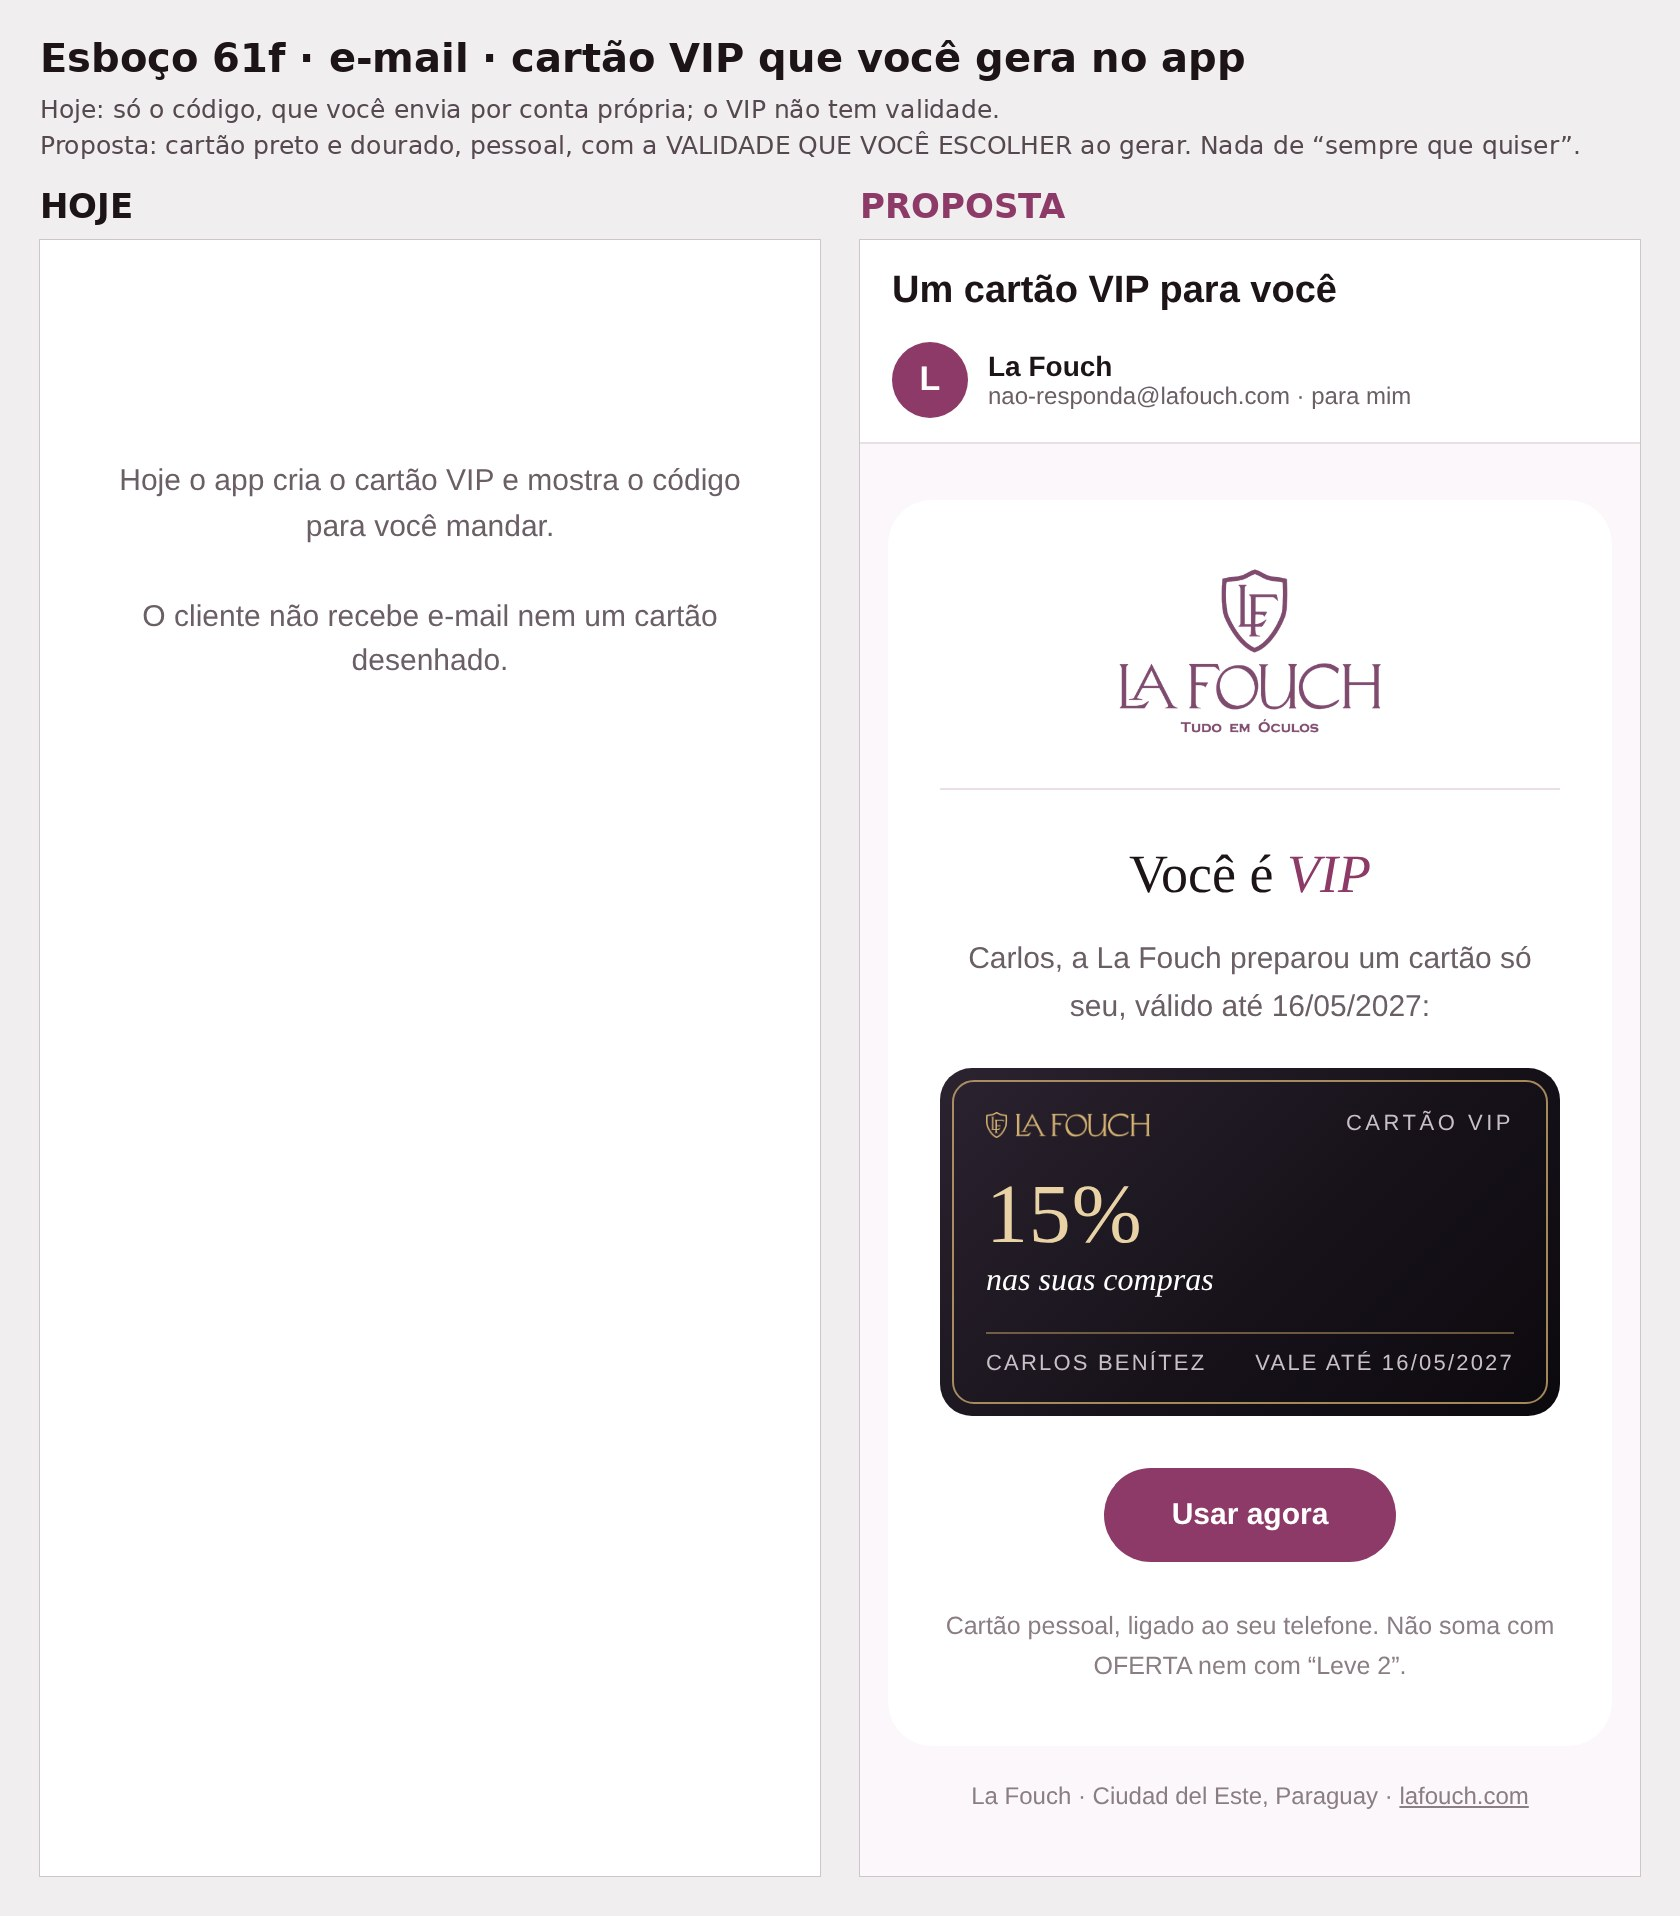
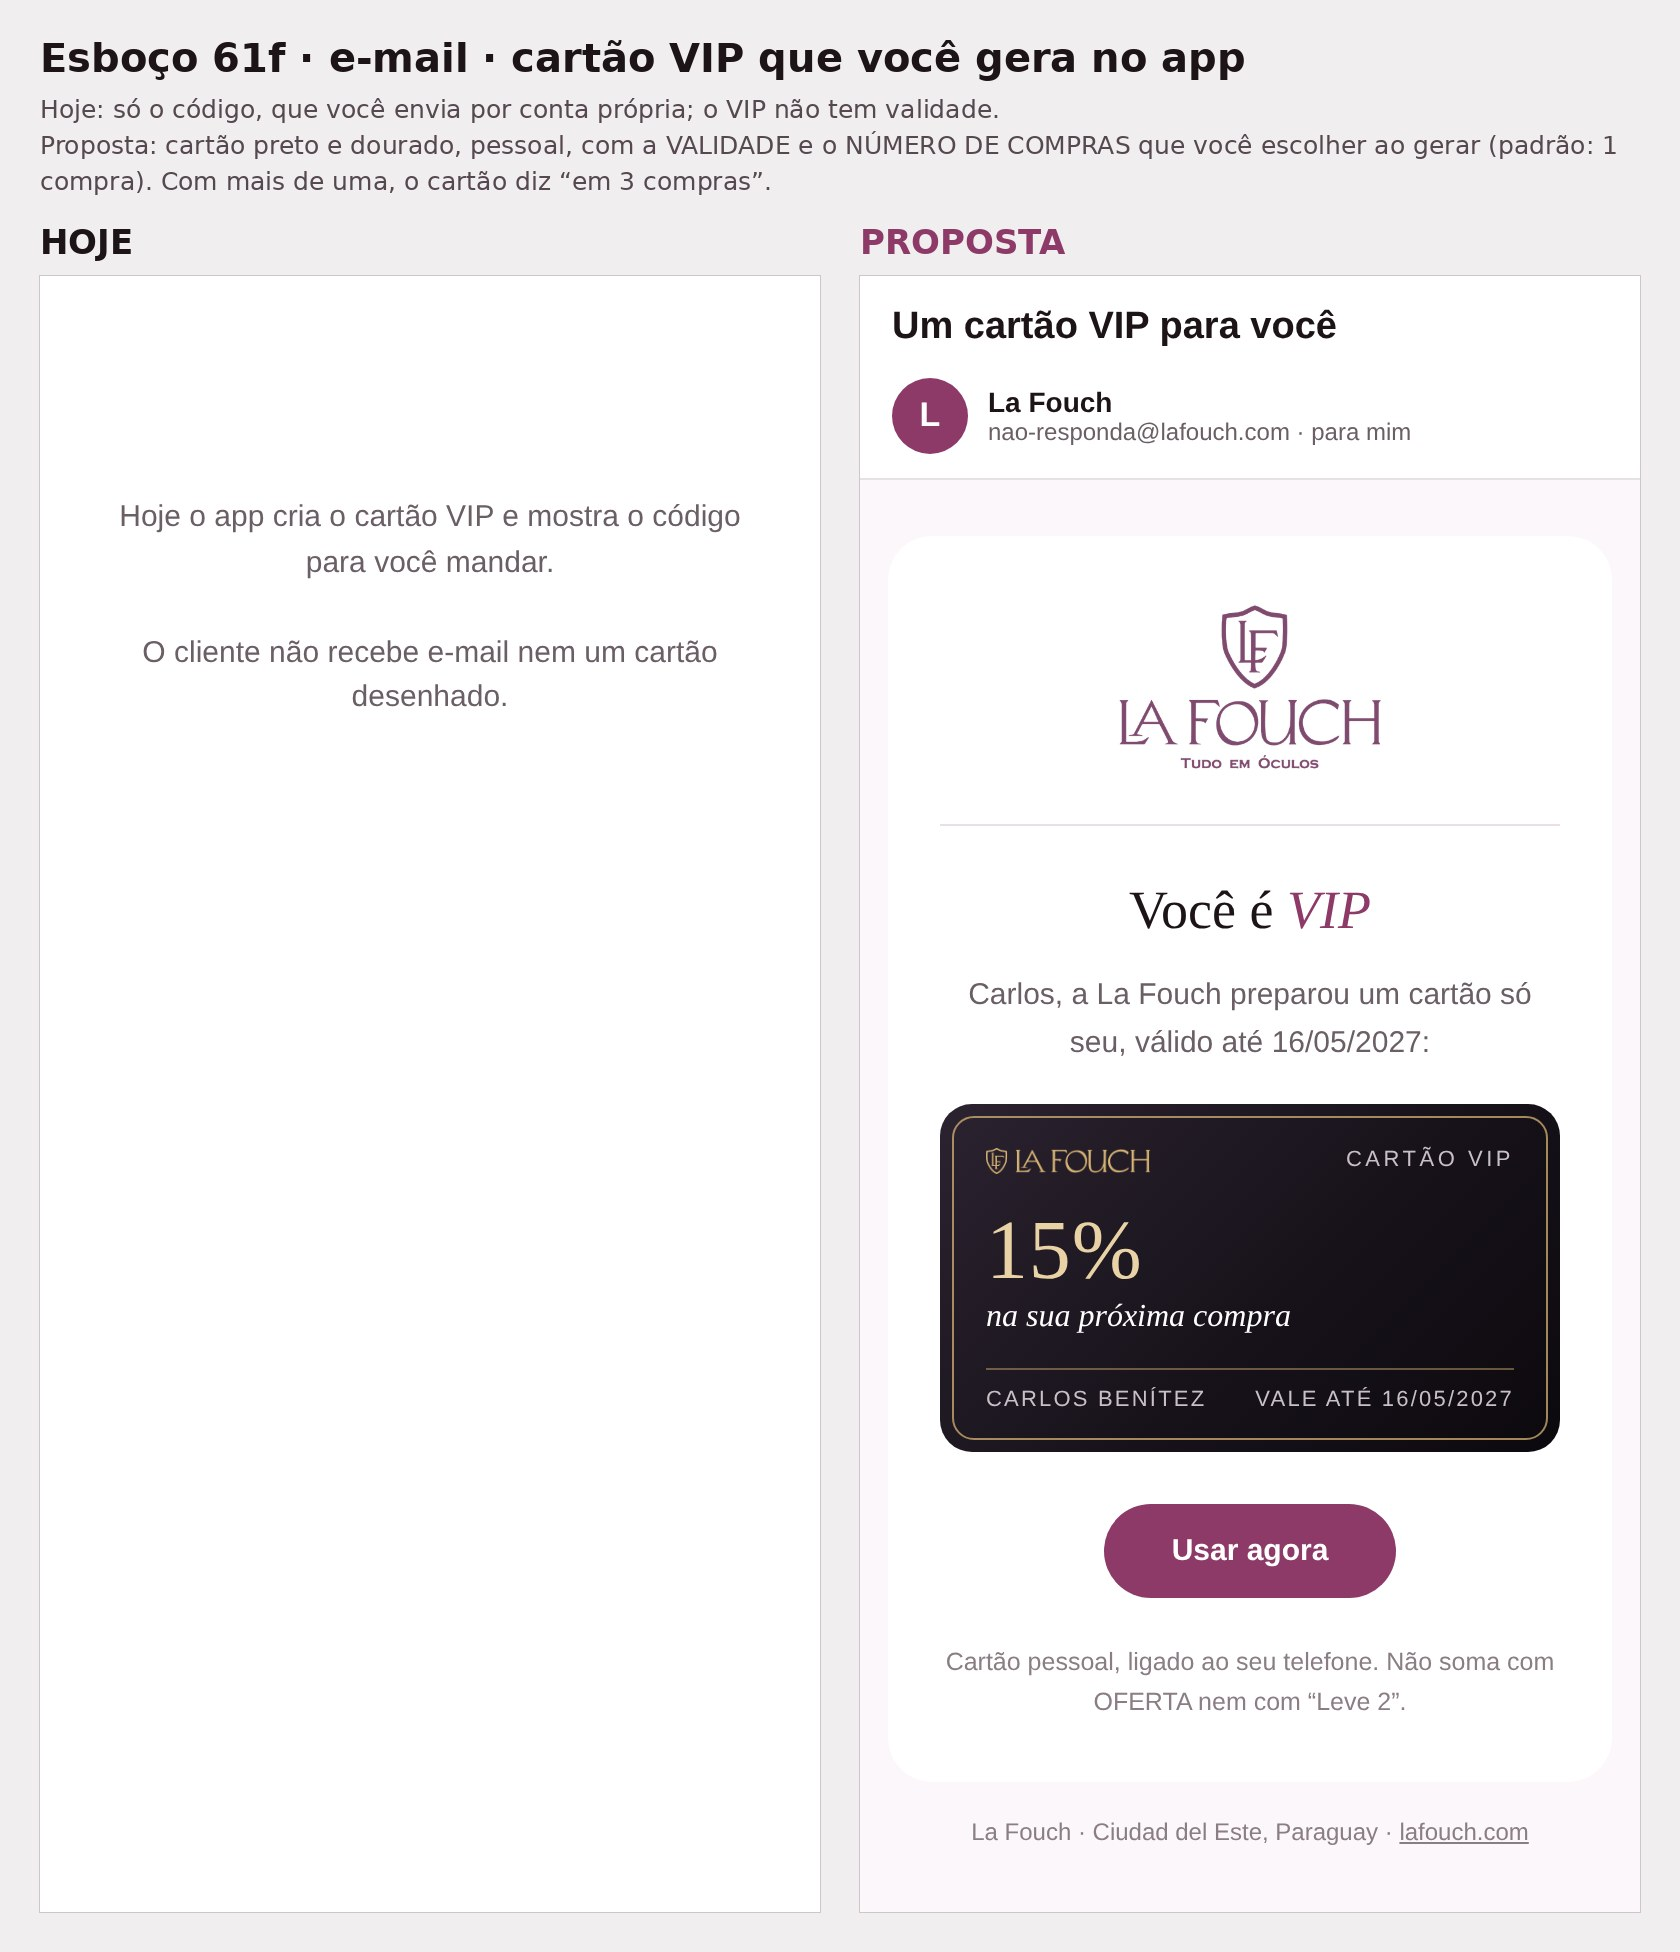
Esboço 61f: VIP vale 1 compra por padrão; decisões do dono guardadas
Claude-Session: https://claude.ai/code/session_01Vj5GPR2QjandaFr6ascRKC

diff --git a/work/s398/gera.js b/work/s398/gera.js
@@ -35,8 +35,8 @@ const L=[
   assunto:'Sua indicação comprou · um presente para você',html:m('Sua indicação '+E.I('comprou'),E.P('Agradecemos por indicar a La Fouch, Carlos. Seu presente:')+luxo({rot:'CARTÃO PRESENTE',pct:'10%',tit:'na próxima compra',nome:'CARLOS BENÍTEZ',val:'VALE ATÉ 16/03/2027'})+E.B('Usar agora','#')+E.FIO()+metas)},
  {arq:'61e-email-cliente-fiel',nome:'Cliente fiel (a cada 3 compras)',hoje:'60e',sub:['Antes (esboço 60e): cartão simples.','Agora: cartão de luxo com a marca “CLIENTE FIEL”.'],
   assunto:'Seu presente de cliente fiel',html:m('Que bom ter você de '+E.I('volta'),E.P('Esta foi a sua terceira compra, Carlos. Seu presente de cliente fiel:')+luxo({rot:'CLIENTE FIEL',pct:'10%',tit:'na próxima compra',nome:'CARLOS BENÍTEZ',val:'VALE ATÉ 16/03/2027'})+E.B('Usar agora','#')+regra)},
- {arq:'61f-email-cartao-vip',nome:'cartão VIP que você gera no app',hoje:null,nota:'Hoje o app cria o cartão VIP e mostra o código para você mandar.<br><br>O cliente não recebe e-mail nem um cartão desenhado.',sub:['Hoje: só o código, que você envia por conta própria; o VIP não tem validade.','Proposta: cartão preto e dourado, pessoal, com a VALIDADE QUE VOCÊ ESCOLHER ao gerar. Nada de “sempre que quiser”.'],
-  assunto:'Um cartão VIP para você',html:m('Você é '+E.I('VIP'),E.P('Carlos, a La Fouch preparou um cartão só seu, válido até 16/05/2027:')+luxo({tema:'preto',rot:'CARTÃO VIP',pct:'15%',tit:'nas suas compras',nome:'CARLOS BENÍTEZ',val:'VALE ATÉ 16/05/2027'})+E.B('Usar agora','#')+E.PQ('Cartão pessoal, ligado ao seu telefone. Não soma com OFERTA nem com “Leve 2”.'))},
+ {arq:'61f-email-cartao-vip',nome:'cartão VIP que você gera no app',hoje:null,nota:'Hoje o app cria o cartão VIP e mostra o código para você mandar.<br><br>O cliente não recebe e-mail nem um cartão desenhado.',sub:['Hoje: só o código, que você envia por conta própria; o VIP não tem validade.','Proposta: cartão preto e dourado, pessoal, com a VALIDADE e o NÚMERO DE COMPRAS que você escolher ao gerar (padrão: 1 compra). Com mais de uma, o cartão diz “em 3 compras”.'],
+  assunto:'Um cartão VIP para você',html:m('Você é '+E.I('VIP'),E.P('Carlos, a La Fouch preparou um cartão só seu, válido até 16/05/2027:')+luxo({tema:'preto',rot:'CARTÃO VIP',pct:'15%',tit:'na sua próxima compra',nome:'CARLOS BENÍTEZ',val:'VALE ATÉ 16/05/2027'})+E.B('Usar agora','#')+E.PQ('Cartão pessoal, ligado ao seu telefone. Não soma com OFERTA nem com “Leve 2”.'))},
  {arq:'61g-email-cartao-presente-da-loja',nome:'cartão avulso que você gera no app (qualquer %)',hoje:null,nota:'Hoje o app cria o cartão e mostra o código para você mandar.<br><br>O cliente não recebe e-mail.',sub:['Hoje: só o código.','Proposta: o cliente recebe o cartão com o valor que você escolheu (aqui, 20%), para uma compra.'],
   assunto:'Um presente da La Fouch',html:m('Um presente para '+E.I('você'),E.P('Maria, este cartão é um agrado da La Fouch para a sua próxima compra:')+luxo({rot:'CARTÃO PRESENTE',pct:'20%',tit:'na próxima compra',nome:M,val:'VALE ATÉ 16/03/2027'})+E.B('Usar agora','#')+regra)},
  {arq:'61h-email-cupom-do-evento',nome:'cupom do evento que você gera no app',hoje:null,nota:'Hoje o cupom do evento é só um código (ex.: NAVIDAD10) que você divulga.<br><br>Não há cartão desenhado.',sub:['Hoje: só o código.','Proposta: vai no e-mail de novidades do evento. É o ÚNICO cartão com o código à vista, porque é público e serve para qualquer pessoa.'],

diff --git a/docs/FALTA-APROVAR-15-11.md b/docs/FALTA-APROVAR-15-11.md
@@ -310,3 +310,4 @@ Não são esquecimento (estavam na lista, parados de propósito ou por ordem do 
 - 17/11 06:15 — DONO: "Maravilha; agora cada cartão de evento precisa respeitar sua cor de temática." → ESBOÇO 62 REFEITO (aguardando aprovação; nada implementado): cada cartão de evento usa a paleta inteira da temática do site — natal verde #1f5c3a + dourado claro #ffd9a0; mães rosa #b8436f + #ffd1df; pais azul-marinho #1e2f4d + #e0b878; ano-novo azul-noite #16213a + #e3c88f; black friday preto #111 + fio vermelho #e11d48; halloween roxo #2a1530/#5a2f72 + laranja #e2711d. Fundo, fio, número e logo na cor da temática. Paletas em work/s398/gera.js (EV).
 - 17/11 06:17 — DONO: "Ano-novo e dia dos pais estão com a mesma cor; ano-novo tem sua temática de cor." → ESBOÇO 62 CORRIGIDO (aguardando aprovação): Ano-Novo passa a usar a temática de dia do site (champanhe claro + dourado #a8854a/#8d703e, texto #1f1d1a); Dia dos Pais fica sozinho no azul-marinho. Erro meu: usei a versão noite do Ano-Novo (#16213a), quase igual ao azul dos Pais.
 - 17/11 06:18 — DONO: "'Em toda a loja' dá a entender que o cupom funciona para todos os produtos, o que é informação falsa." → ESBOÇOS 62 e 61h CORRIGIDOS (aguardando aprovação; nada implementado): saiu "em toda a loja"/"toda a loja"; o cartão diz "de desconto · <evento>" e o e-mail traz a regra "Um código por compra. Não vale para peças em OFERTA nem para o “Leve 2”." (regra que já existe em functions/cupom.js). O 61h passou a usar o cartão verde do Natal (temática) e o assunto ficou em português. REGRA: nunca escrever que um cupom vale para toda a loja/todos os produtos.
+- 17/11 06:21 — DONO DECIDIU: (1) a regra "Um código por compra. Não vale para peças em OFERTA nem para o “Leve 2”." está CORRETA; (2) cartão VIP: o dono decide quantas compras vale ao gerar; PADRÃO = 1 compra (e a validade também é ele quem escolhe). Esboço 61f refeito: "15% na sua próxima compra" (com mais de uma: "em N compras"). Continua tudo aguardando "aprovado"/"implementar". Para o app (outra sessão): a tela de gerar cartão VIP precisa dos campos validade e número de compras (padrão 1).
